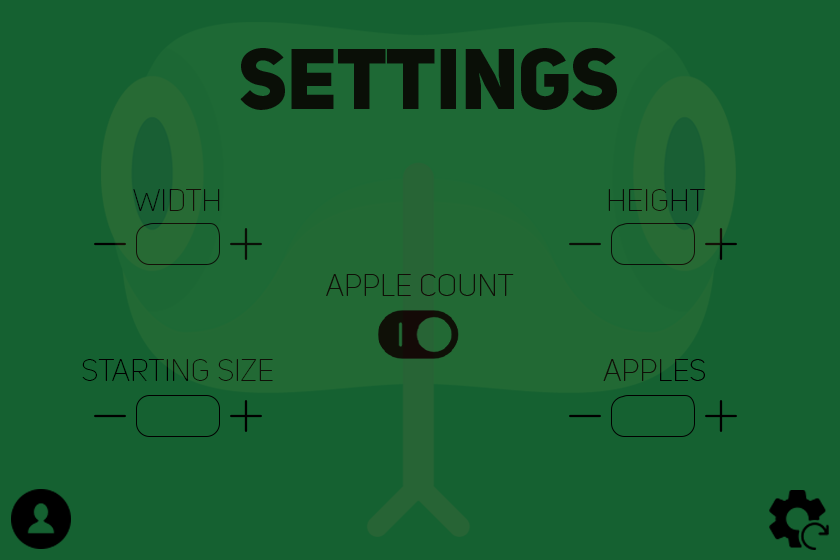
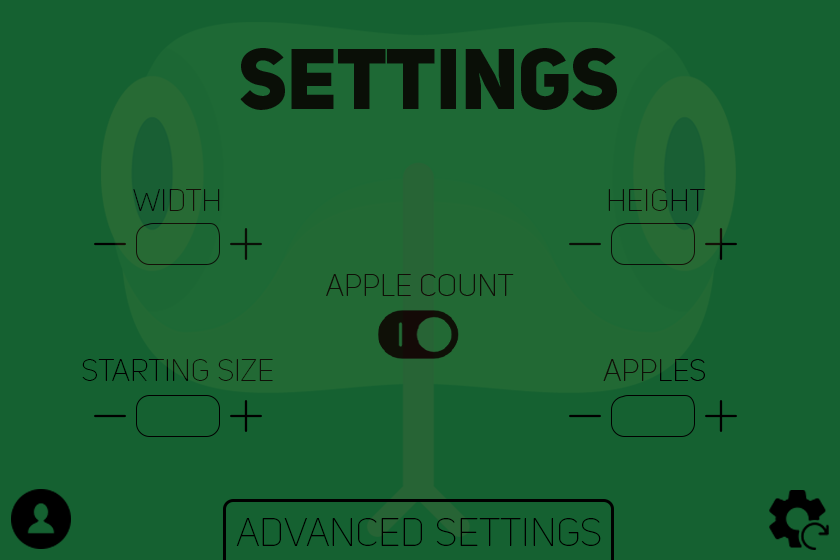
snake add

Changed region(s): [[0.2476, 0.8804, 0.7429, 1.0]]

diff --git a/APL/projets/Snake/main.c b/APL/projets/Snake/main.c
@@ -113,7 +113,7 @@ void nextLevel (Game *G, Bodies *B, Apple *A, Wall *W, unsigned long *temps) {
   G->level++;
   B->snake.nbrseg = B->initSize;
   B->snake.seg = realloc(B->snake.seg, (B->snake.nbrseg) * sizeof(Segment));
-  B->snake.speed -= 4000;
+  B->snake.speed -= B->snake.speed/6;
   int i;
   for(i = 0; i < B->nbrBot; i++) {
     B->bot[i].nbrseg++;
@@ -191,7 +191,7 @@ void timer (Game G, Apple A, unsigned long temps) {
   EcrireTexte(width/2+40, height-18, png, 2);
 }
 
-void gameOver (Game G) {
+void gameOver (Game *G) {
 
   int width = 60*14;
   int height = 40*14;
@@ -202,67 +202,78 @@ void gameOver (Game G) {
   FermerGraphique();
   InitialiserGraphique();
   CreerFenetre(500, 300, width, height);
-  couleur C = choisirCouleur(G.theme, 'd');
 
   // Affichage du score final et du level atteint
-  ChoisirEcran(8);
-  EffacerEcran(C);
+  ChoisirEcran(9);
+  EffacerEcran(choisirCouleur(G->theme, 'd'));
   ChargerImageFond("src/gameover.png");
-  png[11] = (G.score / 10000) + '0';
+  png[11] = (G->score / 10000) + '0';
   if(png[11] != '0') {
-    ChargerImage(png, 330, height/2+47, 0, 0, 23, 31);
+    ChargerImage(png, 445, height/2+14, 0, 0, 23, 31);
     decal += 28;
   }
-  png[11] = (G.score / 1000 % 10) + '0';
+  png[11] = (G->score / 1000 % 10) + '0';
   if(png[11] != '0') {
-    ChargerImage(png, decal+330, height/2+47, 0, 0, 23, 31);
+    ChargerImage(png, decal+445, height/2+14, 0, 0, 23, 31);
     decal += 28;
   }
-  png[11] = (G.score / 100 % 10) + '0';
+  png[11] = (G->score / 100 % 10) + '0';
   if(png[11] != '0') {
-    ChargerImage(png, decal+330, height/2+47, 0, 0, 23, 31);
+    ChargerImage(png, decal+445, height/2+14, 0, 0, 23, 31);
     decal += 28;
   }
-  png[11] = (G.score / 10 % 10) + '0';
+  png[11] = (G->score / 10 % 10) + '0';
   if(png[11] != '0') {
-    ChargerImage(png, decal+330, height/2+47, 0, 0, 23, 31);
+    ChargerImage(png, decal+445, height/2+14, 0, 0, 23, 31);
     decal += 28;
   }
-  png[11] = (G.score % 10) + '0';
-  ChargerImage(png, decal+330, height/2+47, 0, 0, 23, 31);
-  if(G.level+1 >= 10) {
-    png[11] = (G.level+1)/10 + '0';
-    ChargerImage(png, 678, height/2+47, 0, 0, 23, 31);
-    png[11] = (G.level+1)%10 + '0';
-    ChargerImage(png, 28+678, height/2+47, 0, 0, 23, 31);
+  png[11] = (G->score % 10) + '0';
+  ChargerImage(png, decal+445, height/2+14, 0, 0, 23, 31);
+  if(G->level+1 >= 10) {
+    png[11] = (G->level+1)/10 + '0';
+    ChargerImage(png, 454, height-194, 0, 0, 23, 31);
+    png[11] = (G->level+1)%10 + '0';
+    ChargerImage(png, 28+454, height-194, 0, 0, 23, 31);
   }
   else {
-    png[11] = (G.level+1)%10 + '0';
-    ChargerImage(png, 678, height/2+47, 0, 0, 23, 31);
+    png[11] = (G->level+1)%10 + '0';
+    ChargerImage(png, 454, height-194, 0, 0, 23, 31);
   }
 
-  ChoisirEcran(9);
-  EffacerEcran(C);
-  ChargerImageFond("src/gameover2.png");
-  CopierZone(8, 9, 0, 0, width, 400, 0, 0);
+  #ifdef DEV
+    DessinerRectangle(5, height-70, 64, 64); // Pseudo
+    DessinerRectangle(width-70, height-70, 64, 64); // Reset settings
+  #endif
+
   CopierZone(9, 0, 0, 0, width, height, 0, 0);
   while(ToucheEnAttente())
     Touche();
   while(SourisCliquee());
-
-  while(!ToucheEnAttente() && !SourisCliquee()) {
+  ChoisirEcran(0);
+  while(!ToucheEnAttente()) {
     usleep(50000);
     var++;
     if(var%15 == 0 && var > 30) {
+      ChargerImage("src/presskey.png", 220, 460, 0, 0, 426, 20);
+    }
+    if(var%15 == 8) {
       CopierZone(9, 0, 0, 0, width, height, 0, 0);
     }
-    if(var%15 == 8 && var > 30) {
-      CopierZone(8, 0, 0, 0, width, height, 0, 0);
-    }
-    if(var < 30) {
+    if(var < 40) {
       while(ToucheEnAttente())
         Touche();
-      while(SourisCliquee());
+    }
+    SourisCliquee();
+    if(_X >= 5 && _X <= 69 && _Y >= height-70 && _Y <= height-6) {
+      changePseudo(G);
+      while(SourisCliquee()); // On vide la file d'attente
+      _X = 0;
+      _Y = 0;
+      return;
+    }
+    if(_X >= width-70 && _X <= width-6 && _Y >= height-70 && _Y <= height-6) {
+      G->opt = 1;
+      return;
     }
   }
 }
@@ -332,8 +343,8 @@ void draw (Game G, Bodies B, Apple A, Wall W, unsigned long temps) {
   }
 
   // Dessin des Segments des Bots
-  ChoisirCouleurDessin(choisirCouleur(G.theme, 'r'));
   for(i = 0 ; i < B.nbrBot ; i++) {
+    ChoisirCouleurDessin(choisirCouleur(G.theme, 'r'));
     for(j = 0; j < B.bot[i].nbrseg ; j++)
       RemplirRectangle(B.bot[i].seg[j].x+1, B.bot[i].seg[j].y+1, G.tcase-1, G.tcase-1);
 
@@ -377,13 +388,27 @@ void draw (Game G, Bodies B, Apple A, Wall W, unsigned long temps) {
   CopierZone(1, 0, 0, 0, width, height, 0, 0);
 }
 
+void gameModes(Game *G, Bodies *B, Apple *A, Wall *W, int argc, char *argv[]) {
+
+  if(argc < 2)
+    return;
+
+  if(argc == 2 && !strcmp(argv[1], "zombie")) {
+    G->opt = 2;
+    B->nbrBot = 30;
+    B->initSpeed = 100000;
+    B->initSize = 20;
+    A->initSpawn = 0;
+    W->initSpawn = 20;
+    dispPlay(G, B, A, W);
+  }
+}
+
 int main (int argc, char *argv[]) {
 
-  if(argc > 1) {
-    if(!strcmp(argv[1], "reset")) {
-      remove("src/settings");
-      remove("src/scores");
-    }
+  if(argc > 1 && !strcmp(argv[1], "reset")) {
+    remove("src/settings");
+    remove("src/scores");
   }
   
   unsigned long temps = Microsecondes();
@@ -400,6 +425,8 @@ int main (int argc, char *argv[]) {
 
   while(1) {
 
+    gameModes(&G, &B, &A, &W, argc, argv);
+
     while(!verif(&G, &B, W) && touche != XK_Escape) {
 
       usleep(B.snake.speed);
@@ -407,10 +434,8 @@ int main (int argc, char *argv[]) {
       if(ToucheEnAttente()) {
         touche = Touche();
 
-
         while(ToucheEnAttente())
           Touche();
-
 
         if(touche == XK_Up || touche == XK_z)
           B.snake.dir = UP;
@@ -433,7 +458,7 @@ int main (int argc, char *argv[]) {
     }
 
     if(touche != XK_Escape)
-      gameOver(G);
+      gameOver(&G);
     FermerGraphique();
     setScore(G);
     dispMenu(&G, &B, &A, &W);

diff --git a/APL/projets/Snake/menu.c b/APL/projets/Snake/menu.c
@@ -52,9 +52,14 @@ void dispMenu (Game *G, Bodies *B, Apple *A, Wall *W) {
 		touche = 0;
 		if(ToucheEnAttente())
 			touche = Touche();
+		if(G->opt == 1) {
+			G->opt = 0;
+			dispHighscore(G, B, A, W);
+			CopierZone(2, 0, 0, 0, width, height, 0, 0);
+		}
 
 		if(touche == XK_Escape)
-			quit(*G, *B, *A, *W);
+			quit(G, B, A, W);
 		if(touche == XK_Down || touche == XK_s) {
 			if(old == 3)
 				old = 4;
@@ -79,7 +84,7 @@ void dispMenu (Game *G, Bodies *B, Apple *A, Wall *W) {
 			if(old == 3)
 				dispSettings(G, B, A, W);
 			if(old == 4)
-				quit(*G, *B, *A, *W);
+				quit(G, B, A, W);
 		}
 
 		if(_X >= 340 && _X <= 340+160 && _Y >= 190 && _Y <= 190+80 || old == 1) {
@@ -113,7 +118,7 @@ void dispMenu (Game *G, Bodies *B, Apple *A, Wall *W) {
 				continue;
 			}
 			if(_X >= 360 && _X <= 360+120 && _Y >= 470 && _Y <= 470+60)
-				quit(*G, *B, *A, *W);
+				quit(G, B, A, W);
 			_X = 0;
 			_Y = 0;
 			ChargerImageFond("src/menu_bg.png");
@@ -164,7 +169,7 @@ void dispHighscore (Game *G, Bodies *B, Apple *A, Wall *W) {
 	int touche = 0, temp, temp_l, posy = 120, posx = 320;
 	char buf[6], player[11];
 
-	ChoisirEcran(2);
+	ChoisirEcran(4);
 	ChargerImageFond("src/hs_bg.png");
 	ChoisirCouleurDessin(CouleurParNom("black"));
 
@@ -239,7 +244,7 @@ void dispHighscore (Game *G, Bodies *B, Apple *A, Wall *W) {
 	if(line >= 3)
 		EcrireTexte(137, 246, "3.", 2);
 
-	CopierZone(2, 0, 0, 0, width, height, 0, 0);
+	CopierZone(4, 0, 0, 0, width, height, 0, 0);
 
 	int var = 0; 
 	while(touche != XK_Escape) {
@@ -251,7 +256,8 @@ void dispHighscore (Game *G, Bodies *B, Apple *A, Wall *W) {
 		}
 		if(_X >= width-71 && _X <= width-7 && _Y >= height-71 && _Y <= height-7) {
 			changePseudo(G);
-			CopierZone(2, 0, 0, 0, width, height, 0, 0);
+			setNewSettings(*G, *B, *A, *W);
+			CopierZone(4, 0, 0, 0, width, height, 0, 0);
 			while(SourisCliquee());
 		}
 		_X = 0;
@@ -261,6 +267,7 @@ void dispHighscore (Game *G, Bodies *B, Apple *A, Wall *W) {
 	}
 	ChoisirEcran(2);
 	fclose(fichier);
+	while(SourisCliquee());
 }
 
 void setScore (Game G) {
@@ -373,9 +380,10 @@ couleur choisirCouleur (Theme T, char type) {
 	return C;
 }
 
-void quit (Game G, Bodies B, Apple A, Wall W) {
+void quit (Game *G, Bodies *B, Apple *A, Wall *W) {
 
 	FermerGraphique();
+	setNewSettings(*G, *B, *A, *W);
 	printf("▁ ▂ ▄ ▅ ▆ ▇ █ Merci d'avoir joué ! █ ▇ ▆ ▅ ▄ ▂ ▁\n");
-	exit(0);
+	exit(EXIT_SUCCESS);
 }

diff --git a/APL/projets/Snake/settings.c b/APL/projets/Snake/settings.c
@@ -22,20 +22,20 @@ void dispSettings (Game *G, Bodies *B, Apple *A, Wall *W) {
 		#ifdef DEV
 			DessinerSegment(width/2, 0, width/2, height);
 			DessinerSegment(0, height/2, width, height/2);
-			DessinerRectangle(377, 310, 81, 48);
-			DessinerRectangle(9, height-74, 64, 64);
-			DessinerRectangle(width-74, height-74, 64, 64);
-			DessinerRectangle(92, 226, 35, 35);
+			DessinerRectangle(377, 310, 81, 48); // Switch bouton
+			DessinerRectangle(9, height-74, 64, 64); // Pseudo
+			DessinerRectangle(width-74, height-74, 64, 64); // Reset settings
+			DessinerRectangle(92, 226, 35, 35); // Width
 			DessinerRectangle(228, 226, 35, 35);
-			DessinerRectangle(567, 226, 35, 35);
+			DessinerRectangle(567, 226, 35, 35); // Height
 			DessinerRectangle(703, 226, 35, 35);
-			DessinerRectangle(92, 398, 35, 35);
+			DessinerRectangle(92, 398, 35, 35); // Starting size
 			DessinerRectangle(228, 398, 35, 35);
-			DessinerRectangle(567, 398, 35, 35);
+			DessinerRectangle(567, 398, 35, 35); // Apples
 			DessinerRectangle(703, 398, 35, 35);
 			if(SourisCliquee())
 				printf("X: %d | Y: %d\n", _X, _Y);
-			DessinerRectangle(277, 519, 305, 28);
+			DessinerRectangle(225, 502, 386, 58); // AdvSettings
 		#endif
 
 		// Décalage du texte (détail)
@@ -111,7 +111,7 @@ void dispSettings (Game *G, Bodies *B, Apple *A, Wall *W) {
 		if(_X >= 703 && _X <= 703+35 && _Y >= 398 && _Y <= 398+35 && A->initSpawn < 99)
 			A->initSpawn++;
 
-		if(_X >= 277 && _X <= 277+305 && _Y >= 519 && _Y <= 519+28)
+		if(_X >= 225 && _X <= 611 && _Y >= 502 && _Y <= height)
 			advSettings(G, B, W);
 
 		_X = 0;
@@ -251,6 +251,9 @@ void setDefaultSettings () {
 
 void setNewSettings (Game G, Bodies B, Apple A, Wall W) {
 
+	if(G.opt > 1)
+		return;
+
 	remove("src/settings");
 	FILE *fichier = fopen("src/settings", "a");
 	fichier = fopen("src/settings", "r+");
@@ -273,6 +276,7 @@ void setNewSettings (Game G, Bodies B, Apple A, Wall W) {
 
 void readSettings(FILE *fichier, Game *G, Bodies *B, Apple *A, Wall *W) {
 
+	G->opt = 0;
 	int i;
 	for(i = 0; i < 11; i++) {
 		if(i == 0)

diff --git a/APL/projets/Snake/menu.h b/APL/projets/Snake/menu.h
@@ -12,10 +12,9 @@ void initGame (Game *G, Bodies *B, Apple *A, Wall *W);
 void dispMenu (Game *G, Bodies *B, Apple *A, Wall *W);
 void dispPlay (Game *G, Bodies *B, Apple *A, Wall *W);
 void dispHighscore (Game *G, Bodies *B, Apple *A, Wall *W);
-void quit (Game G, Bodies B, Apple A, Wall W);
-void dispHighscore (Game *G, Bodies *B, Apple *A, Wall *W);
 void setScore (Game G);
 int verifScore (char *pseudo, int score);
 couleur choisirCouleur (Theme T, char type);
+void quit (Game *G, Bodies *B, Apple *A, Wall *W);
 
 #endif

diff --git a/APL/projets/Snake/main.h b/APL/projets/Snake/main.h
@@ -8,11 +8,12 @@
 #include <time.h>
 #include <string.h>
 #include "struct.h"
+#include "settings.h"
 
 void verifPause (Game G, Bodies B, Apple A, Wall W, int *touche, unsigned long *temps);
 void nextLevel (Game *G, Bodies *B, Apple *A, Wall *W, unsigned long *temps);
 void timer (Game G, Apple A, unsigned long temps);
-void gameOver (Game G);
+void gameOver (Game *G);
 void draw (Game G, Bodies B, Apple A, Wall W, unsigned long temps);
 
 #endif

diff --git a/APL/projets/Snake/snake.c b/APL/projets/Snake/snake.c
@@ -306,7 +306,10 @@ int verif (Game *G, Bodies *B, Wall W) {
 
 void verifApple (Game *G, Bodies *B, Apple *A, Wall *W, unsigned long *temps) {
 
-  if(A->eaten == A->spawn)
+	if(G->opt == 2)
+		return;
+
+  	if(A->eaten == A->spawn)
     return nextLevel(G, B, A, W, temps);
 
   int i, j;

diff --git a/APL/projets/Snake/struct.h b/APL/projets/Snake/struct.h
@@ -49,7 +49,8 @@ typedef enum {
   CHRISTMAS,
   MODERN,
   RANDOM,
-  FALLOUT
+  FALLOUT,
+  ZOMBIE
 } Theme;
 
 typedef struct {
@@ -59,6 +60,7 @@ typedef struct {
   int score;
   int level;
   int dispApple;
+  int opt;
   char pseudo[11];
   Theme theme;
 } Game;
